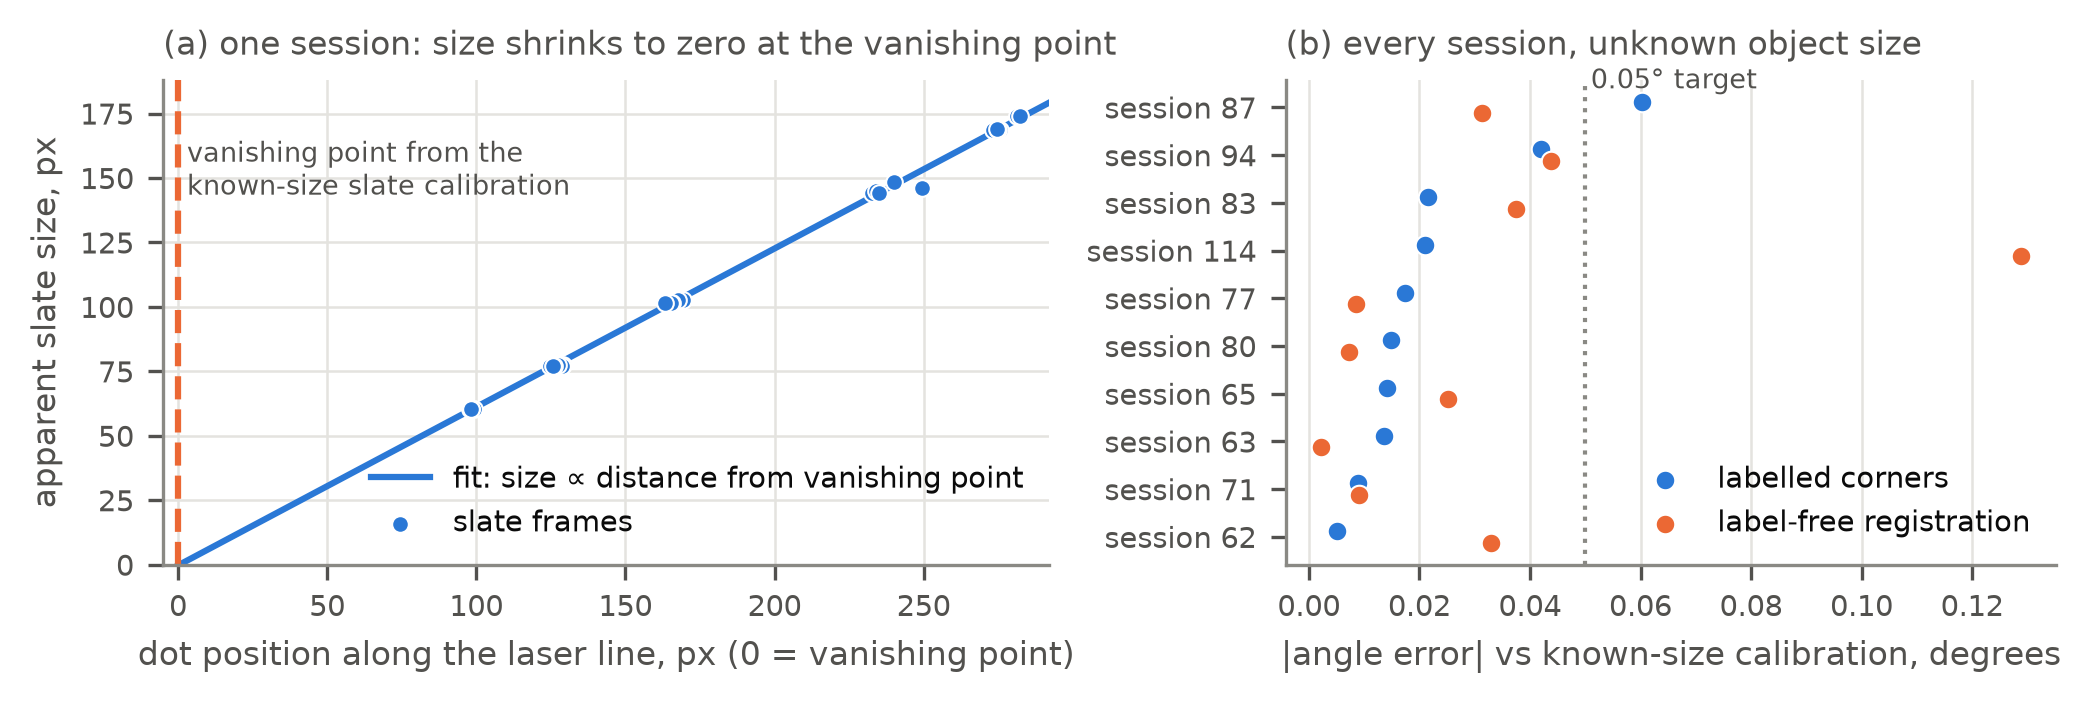
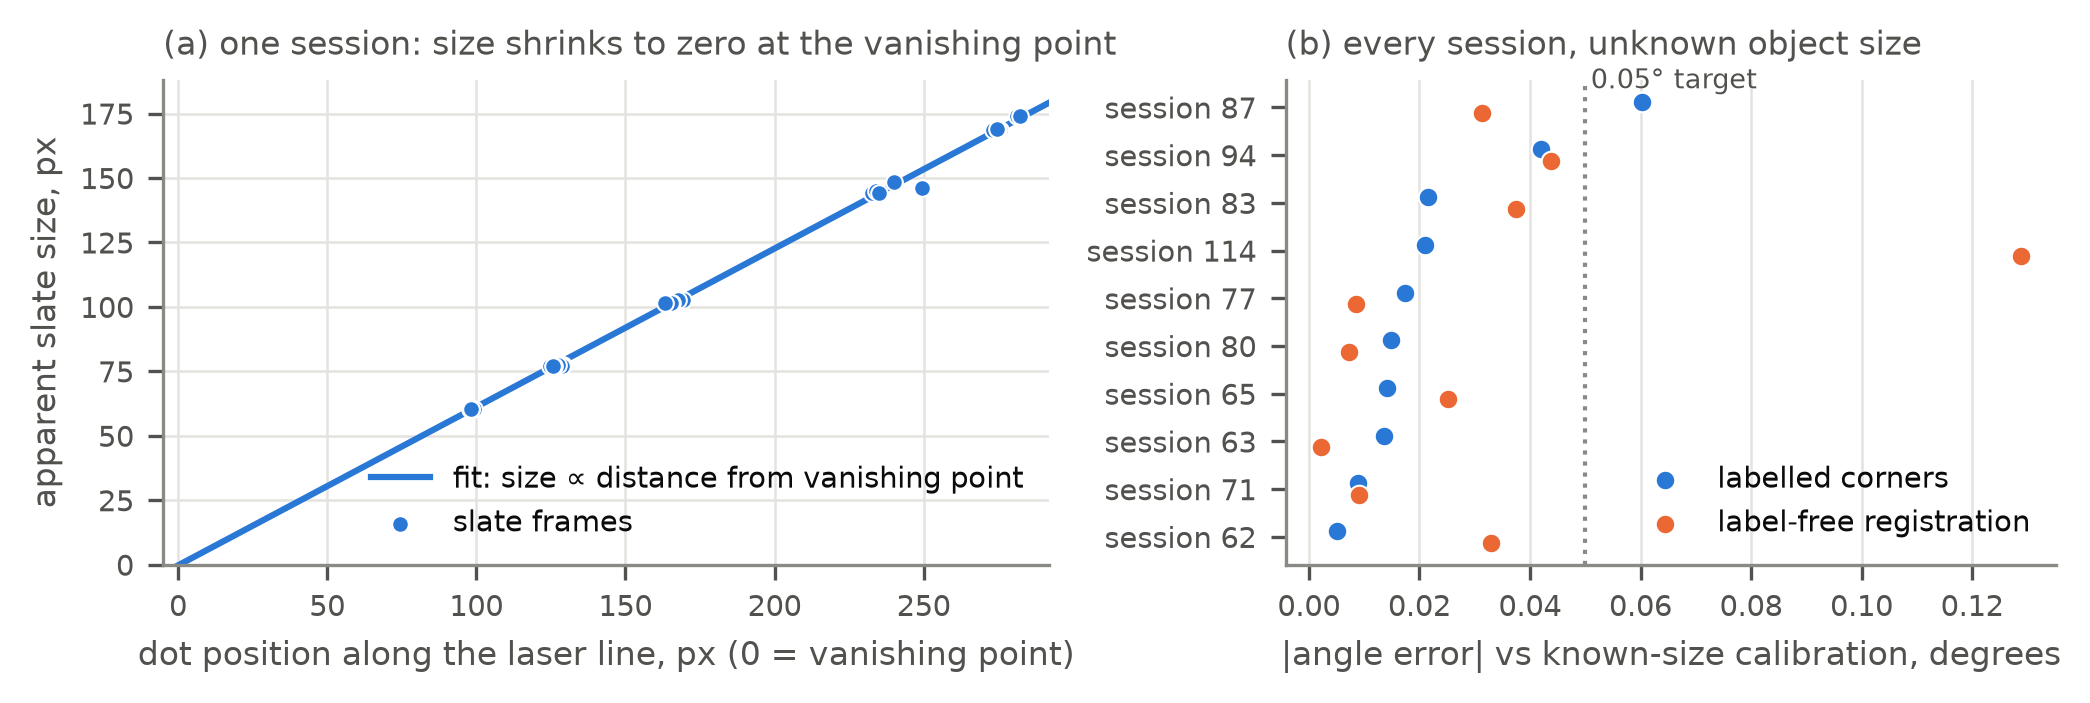
fig: drop the reference line from Fig 3a
The fit reaching zero at x = 0 already shows agreement with the
known-size calibration; the dashed line was noise and reused orange,
which means label-free in panel (b).

diff --git a/figures/make_figures.py b/figures/make_figures.py
@@ -140,8 +140,6 @@ def fig3_size_constancy():
     xx = np.linspace(min(ex["tv"] - t0, 0) - 5, x.max() + 10, 50)
     a.plot(xx, k * (xx + t0 - ex["tv"]), color=BLUE, lw=1.5, label="fit: size ∝ distance from vanishing point")
     a.scatter(x, ex["s"], s=16, color=BLUE, edgecolor="white", linewidth=0.5, zorder=3, label="slate frames")
-    a.axvline(0, color=ORANGE, lw=1.5, ls="--")
-    a.text(3, ex["s"].max() * 0.95, "vanishing point from the\nknown-size slate calibration", color=INK2, fontsize=6.5, va="top")
     a.set_xlim(xx.min(), xx.max()); a.set_ylim(0, ex["s"].max() * 1.08)
     a.set_xlabel("dot position along the laser line, px (0 = vanishing point)"); a.set_ylabel("apparent slate size, px")
     a.set_title("(a) one session: size shrinks to zero at the vanishing point", loc="left", color=INK2)

diff --git a/PAPER.md b/PAPER.md
@@ -310,7 +310,7 @@ the slate and no human labels.
 
 ![Figure 3](figures/fig3_size_constancy.png)
 
-*Figure 3. Size constancy. (a) In one session the slate's apparent size falls linearly to zero at the laser's vanishing point; the fitted intercept lands on the known-size calibration's vanishing point (dashed). (b) Angle error for every session, from labelled corners and from label-free registration, against the 0.05° target.*
+*Figure 3. Size constancy. (a) In one session the slate's apparent size falls linearly to zero at the laser's vanishing point; the fitted line reaches zero at x = 0, the known-size calibration's vanishing point. (b) Angle error for every session, from labelled corners and from label-free registration, against the 0.05° target.*
 
 
 **Against tape.** The reference above is the known-size calibration from the same frames.
